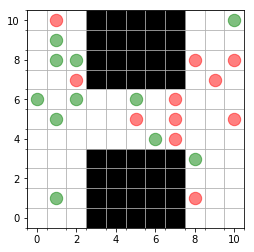
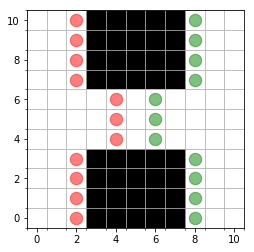
Coded in action variables and functions

diff --git a/BridgeWorld/bridgeModel.py b/BridgeWorld/bridgeModel.py
@@ -38,8 +38,10 @@ from mesa.batchrunner import BatchRunner
 # Class for grid objects (obstacles, targets etc)
 #==============================================================================
 class GridMap():
-    
+
+    #--------------------------------------------------------------------------        
     # Initilize with agentGrid and add obstacles, targets etc
+    #--------------------------------------------------------------------------        
     def __init__(self, agentGrid):
 
        self.agentGrid = agentGrid
@@ -47,10 +49,12 @@ class GridMap():
        self.width = agentGrid.width
        
        self.obstacleGrid = self.obstacleMap()
-       self.targetGrid = self.targetMap()
-        
-       
+       self.targetGrid = self.targetMap()        
+    #--------------------------------------------------------------------------           
+
+    #--------------------------------------------------------------------------    
     # Define the obstacle grid with forbidden locations
+    #--------------------------------------------------------------------------    
     def obstacleMap(self):
 
         obstacleGrid = []
@@ -67,9 +71,11 @@ class GridMap():
 
  
         return(obstacleGrid)
+    #--------------------------------------------------------------------------            
     
-
+    #--------------------------------------------------------------------------    
     # Define the obstacle locations
+    #--------------------------------------------------------------------------    
     def isObstacle(self,x,y):
         
         state = False
@@ -88,10 +94,13 @@ class GridMap():
                 state = True
                                     
         return(state)
-                
+    #--------------------------------------------------------------------------                    
+
+
     
-    
+    #--------------------------------------------------------------------------        
     # Define the target grid 
+    #--------------------------------------------------------------------------    
     def targetMap(self):
 
         targetGrid = []
@@ -104,6 +113,8 @@ class GridMap():
 
          
         return(targetGrid)
+    #--------------------------------------------------------------------------    
+
 #==============================================================================
 
 #==============================================================================
@@ -111,14 +122,32 @@ class GridMap():
 #==============================================================================
 class BridgeAgent(Agent):
     
+
+    #--------------------------------------------------------------------------
     # Initialize all agents start with 0 penalty
+    #--------------------------------------------------------------------------        
     def __init__(self, unique_id, model):
         super().__init__(unique_id, model)
         self.penalty = 0
+        
+        # Action space:
+        self.action_space = {}
+        self.action_space['Left']    = 0 # Left
+        self.action_space['Right']   = 1 # Right
+        self.action_space['Up']      = 2 # Up
+        self.action_space['Down']    = 3 # Down
+        self.action_space['Stay']    = 4 # Stay 
+        
+        self.action_space_n = len(self.action_space)        
+
+        self.action = self.action_space['Stay']
+    #--------------------------------------------------------------------------    
 
 
+    #--------------------------------------------------------------------------    
     # Function for deciding where to move, currently moves to a random unoccupied location
     # or stays put
+    #--------------------------------------------------------------------------        
     def randMoveDecision(self):
         local_steps = self.model.grid.get_neighborhood(self.pos,moore=False,include_center=False)
         
@@ -130,9 +159,61 @@ class BridgeAgent(Agent):
         
         self.new_position = random.choice(possible_steps)
         
+        return()
+    #--------------------------------------------------------------------------    
+
         
-    # Function for making one move in a random direction
-    def randMove(self):               
+    #--------------------------------------------------------------------------            
+    # Function for deciding on a move based on a given action, if new action leads to an 
+    # unoccupied location
+    #--------------------------------------------------------------------------    
+    def directedMoveDecision(self, action):      
+        
+        if(action == self.action_space['Left']):
+            self.new_position = (self.pos[0]-1, self.pos[1]+0)
+        elif(action == self.action_space['Right']):
+            self.new_position = (self.pos[0]+1, self.pos[1]+0)
+        elif(action == self.action_space['Up']):
+            self.new_position = (self.pos[0]+0, self.pos[1]+1)
+        elif(action == self.action_space['Down']):
+            self.new_position = (self.pos[0]+0, self.pos[1]-1)
+        elif(action == self.action_space['Stay']):
+            self.new_position = self.pos
+        else:            
+            print('Error- action not recongized')
+            return(-1)            
+        
+        local_steps = self.model.grid.get_neighborhood(self.pos,moore=False,include_center=True)
+
+        possible_steps = []
+        for lcl_pos in local_steps:
+            if(len(self.model.grid.get_cell_list_contents(lcl_pos)) == 0 ):
+                possible_steps.append(lcl_pos)
+        possible_steps.append(self.pos)
+        
+
+        if(not (self.new_position in local_steps)):
+            # Penalty for hitting a wall at a known locations? If yes, add here
+            self.new_position = self.pos
+
+        if(not (self.new_position in possible_steps)):
+            # Penalty for hitting an agent at a known locations? If yes, add here
+            self.new_position = self.pos
+            
+        if(self.model.obstacleMap[self.new_position]==1):
+            # Penalty for hitting an obstacle at a known locations? If yes, add here
+            self.new_position = self.pos
+            
+            
+        return()    
+    #--------------------------------------------------------------------------                
+                        
+            
+        
+    #--------------------------------------------------------------------------            
+    # Function for executing a decided move
+    #--------------------------------------------------------------------------    
+    def executeMove(self):               
         cell_list = self.model.grid.get_neighborhood(self.new_position,moore=False,include_center=True)
         cell_list.remove(self.pos)
         
@@ -154,49 +235,39 @@ class BridgeAgent(Agent):
         else:    
             if(self.model.obstacleMap[self.new_position]==0):
                 self.model.grid.move_agent(self, self.new_position)  
-            else:
+            else:                
                 self.model.grid.move_agent(self, self.pos)
 
-
-    # Function for making one move in a known direction
-    def directedMove(self, action):               
-        cell_list = self.model.grid.get_neighborhood(self.new_position,moore=False,include_center=True)
-        cell_list.remove(self.pos)
+        return()
+    #--------------------------------------------------------------------------            
+                
         
-        # Remove candidates with obstacles
-        for cell in cell_list:
-            if(self.model.obstacleMap[cell]==1):
-                cell_list.remove(cell)
-        
-        move_competitors = self.model.grid.get_cell_list_contents(cell_list)
-        
-        who_else = []
-        for a in move_competitors:
-            if(a.new_position == self.new_position):
-                who_else.append(a)                             
-
-        if(len(who_else)>0):
-            self.model.grid.move_agent(self, self.pos)                
-            self.updatePenalty()
-        else:    
-            if(self.model.obstacleMap[self.new_position]==0):
-                self.model.grid.move_agent(self, self.new_position)  
-            else:
-                self.model.grid.move_agent(self, self.pos)
-
+    #--------------------------------------------------------------------------    
     # Increase penalty by 1 if there is a collision
+    #--------------------------------------------------------------------------    
     def updatePenalty(self):
         self.penalty = self.penalty + 1      
+        return()
+    #--------------------------------------------------------------------------    
 
+
+    #--------------------------------------------------------------------------    
     # Function for defining all robot activity at each simulation step
+    #--------------------------------------------------------------------------    
     def step(self):
-        self.randMoveDecision()
-
-        
+        #self.randMoveDecision()
+        self.directedMoveDecision(self.action)
+        return()
+    #--------------------------------------------------------------------------            
+    
+    
+    #--------------------------------------------------------------------------        
     # Function for action execution
+    #--------------------------------------------------------------------------    
     def advance(self):
-        self.randMove()
-
+        self.executeMove()
+        return()
+    #--------------------------------------------------------------------------    
 
 #==============================================================================
 
@@ -206,7 +277,9 @@ class BridgeAgent(Agent):
 #==============================================================================
 class WorldModel(Model):
 
+    #--------------------------------------------------------------------------        
     # Initialize world with a number of agents
+    #--------------------------------------------------------------------------    
     def __init__(self, N, width, height):
         self.running = True
         self.num_agents = N
@@ -240,11 +313,18 @@ class WorldModel(Model):
         self.datacollector = DataCollector(
             #model_reporters={"Gini": compute_gini},
             agent_reporters={"Penalty": lambda a: a.penalty})
-
+    #--------------------------------------------------------------------------    
+    
+    
+    #--------------------------------------------------------------------------        
     # All activities to be done in the world at each step
+    #--------------------------------------------------------------------------    
     def step(self):
         self.datacollector.collect(self)
         self.schedule.step()
+        return()
+    #--------------------------------------------------------------------------    
+
         
 #==============================================================================
 

diff --git a/BridgeWorld/bridgeDevTest.py b/BridgeWorld/bridgeDevTest.py
@@ -1,0 +1,116 @@
+# -*- coding: utf-8 -*-
+"""
+Created on Sat Nov 25 11:49:51 2017
+
+@author: rajag038
+"""
+
+
+#==============================================================================
+# Running Bridge World agents with plots
+#==============================================================================
+#==============================================================================
+
+
+# =============================================================================
+# Import statements
+# =============================================================================
+import numpy as np
+import matplotlib.pyplot as plt
+
+from bridgeModel import WorldModel
+from mesa.batchrunner import BatchRunner
+
+# =============================================================================
+
+
+
+#%%
+
+# =============================================================================
+# Create and run a 10 agent world
+# =============================================================================
+height = 11
+width = 11
+model = WorldModel(22, width, height)
+obstacleMap = model.obstacleMap
+
+evenAgents = []
+oddAgents = []
+
+for agent in model.schedule.agents:
+    if(agent.unique_id % 2 == 0):
+        evenAgents.append(agent.pos)        
+    else:
+        oddAgents.append(agent.pos)
+        
+        
+evenAgents = np.matrix(evenAgents)
+oddAgents = np.matrix(oddAgents)       
+ 
+
+
+
+
+#%%
+    
+# Scatter plot of agents and obstacles
+plt.figure()  
+fig, ax = plt.subplots()
+area = np.pi*(7)**2  # 15 point radii
+plt.scatter(np.array(evenAgents[:,0]), np.array(evenAgents[:,1]),s=area, c='g', alpha=0.5)
+plt.scatter(np.array(oddAgents[:,0]), np.array(oddAgents[:,1]),s=area, c='r', alpha=0.5)
+
+plt.imshow(~obstacleMap.T,cmap='gray')
+
+yticks = np.arange(-0.5, height+0.5, 1) 
+xticks = np.arange(-0.5, width+0.5, 1) 
+ax.set_yticks(yticks, minor=True)
+ax.set_xticks(xticks, minor=True)
+plt.grid(which='minor')
+plt.ylim(-0.5,height-0.5)
+plt.xlim(-0.5,width-0.5)
+plt.savefig('BridgeWorldStarting.eps',bbox_inches='tight')
+plt.savefig('BridgeWorldStarting.png',bbox_inches='tight')
+
+
+for agent in model.schedule.agents:
+    if(agent.unique_id % 2 == 0):
+        agent.action = agent.action_space['Left']        
+    else:
+        agent.action = agent.action_space['Right']  
+
+for i in range(2000):
+    model.step()
+
+evenAgents = []
+oddAgents = []
+
+for agent in model.schedule.agents:
+    if(agent.unique_id % 2 == 0):
+        evenAgents.append(agent.pos)        
+    else:
+        oddAgents.append(agent.pos)
+        
+        
+evenAgents = np.matrix(evenAgents)
+oddAgents = np.matrix(oddAgents)      
+
+# Scatter plot of agents and obstacles
+plt.figure()  
+fig, ax = plt.subplots()
+area = np.pi*(7)**2  # 15 point radii
+plt.scatter(np.array(evenAgents[:,0]), np.array(evenAgents[:,1]),s=area, c='g', alpha=0.5)
+plt.scatter(np.array(oddAgents[:,0]), np.array(oddAgents[:,1]),s=area, c='r', alpha=0.5)
+
+plt.imshow(~obstacleMap.T,cmap='gray')
+
+yticks = np.arange(-0.5, height+0.5, 1) 
+xticks = np.arange(-0.5, width+0.5, 1) 
+ax.set_yticks(yticks, minor=True)
+ax.set_xticks(xticks, minor=True)
+plt.grid(which='minor')
+plt.ylim(-0.5,height-0.5)
+plt.xlim(-0.5,width-0.5)
+plt.savefig('BridgeWorldRandom.eps', bbox_inches='tight')
+plt.savefig('BridgeWorldRandom.png', bbox_inches='tight')
